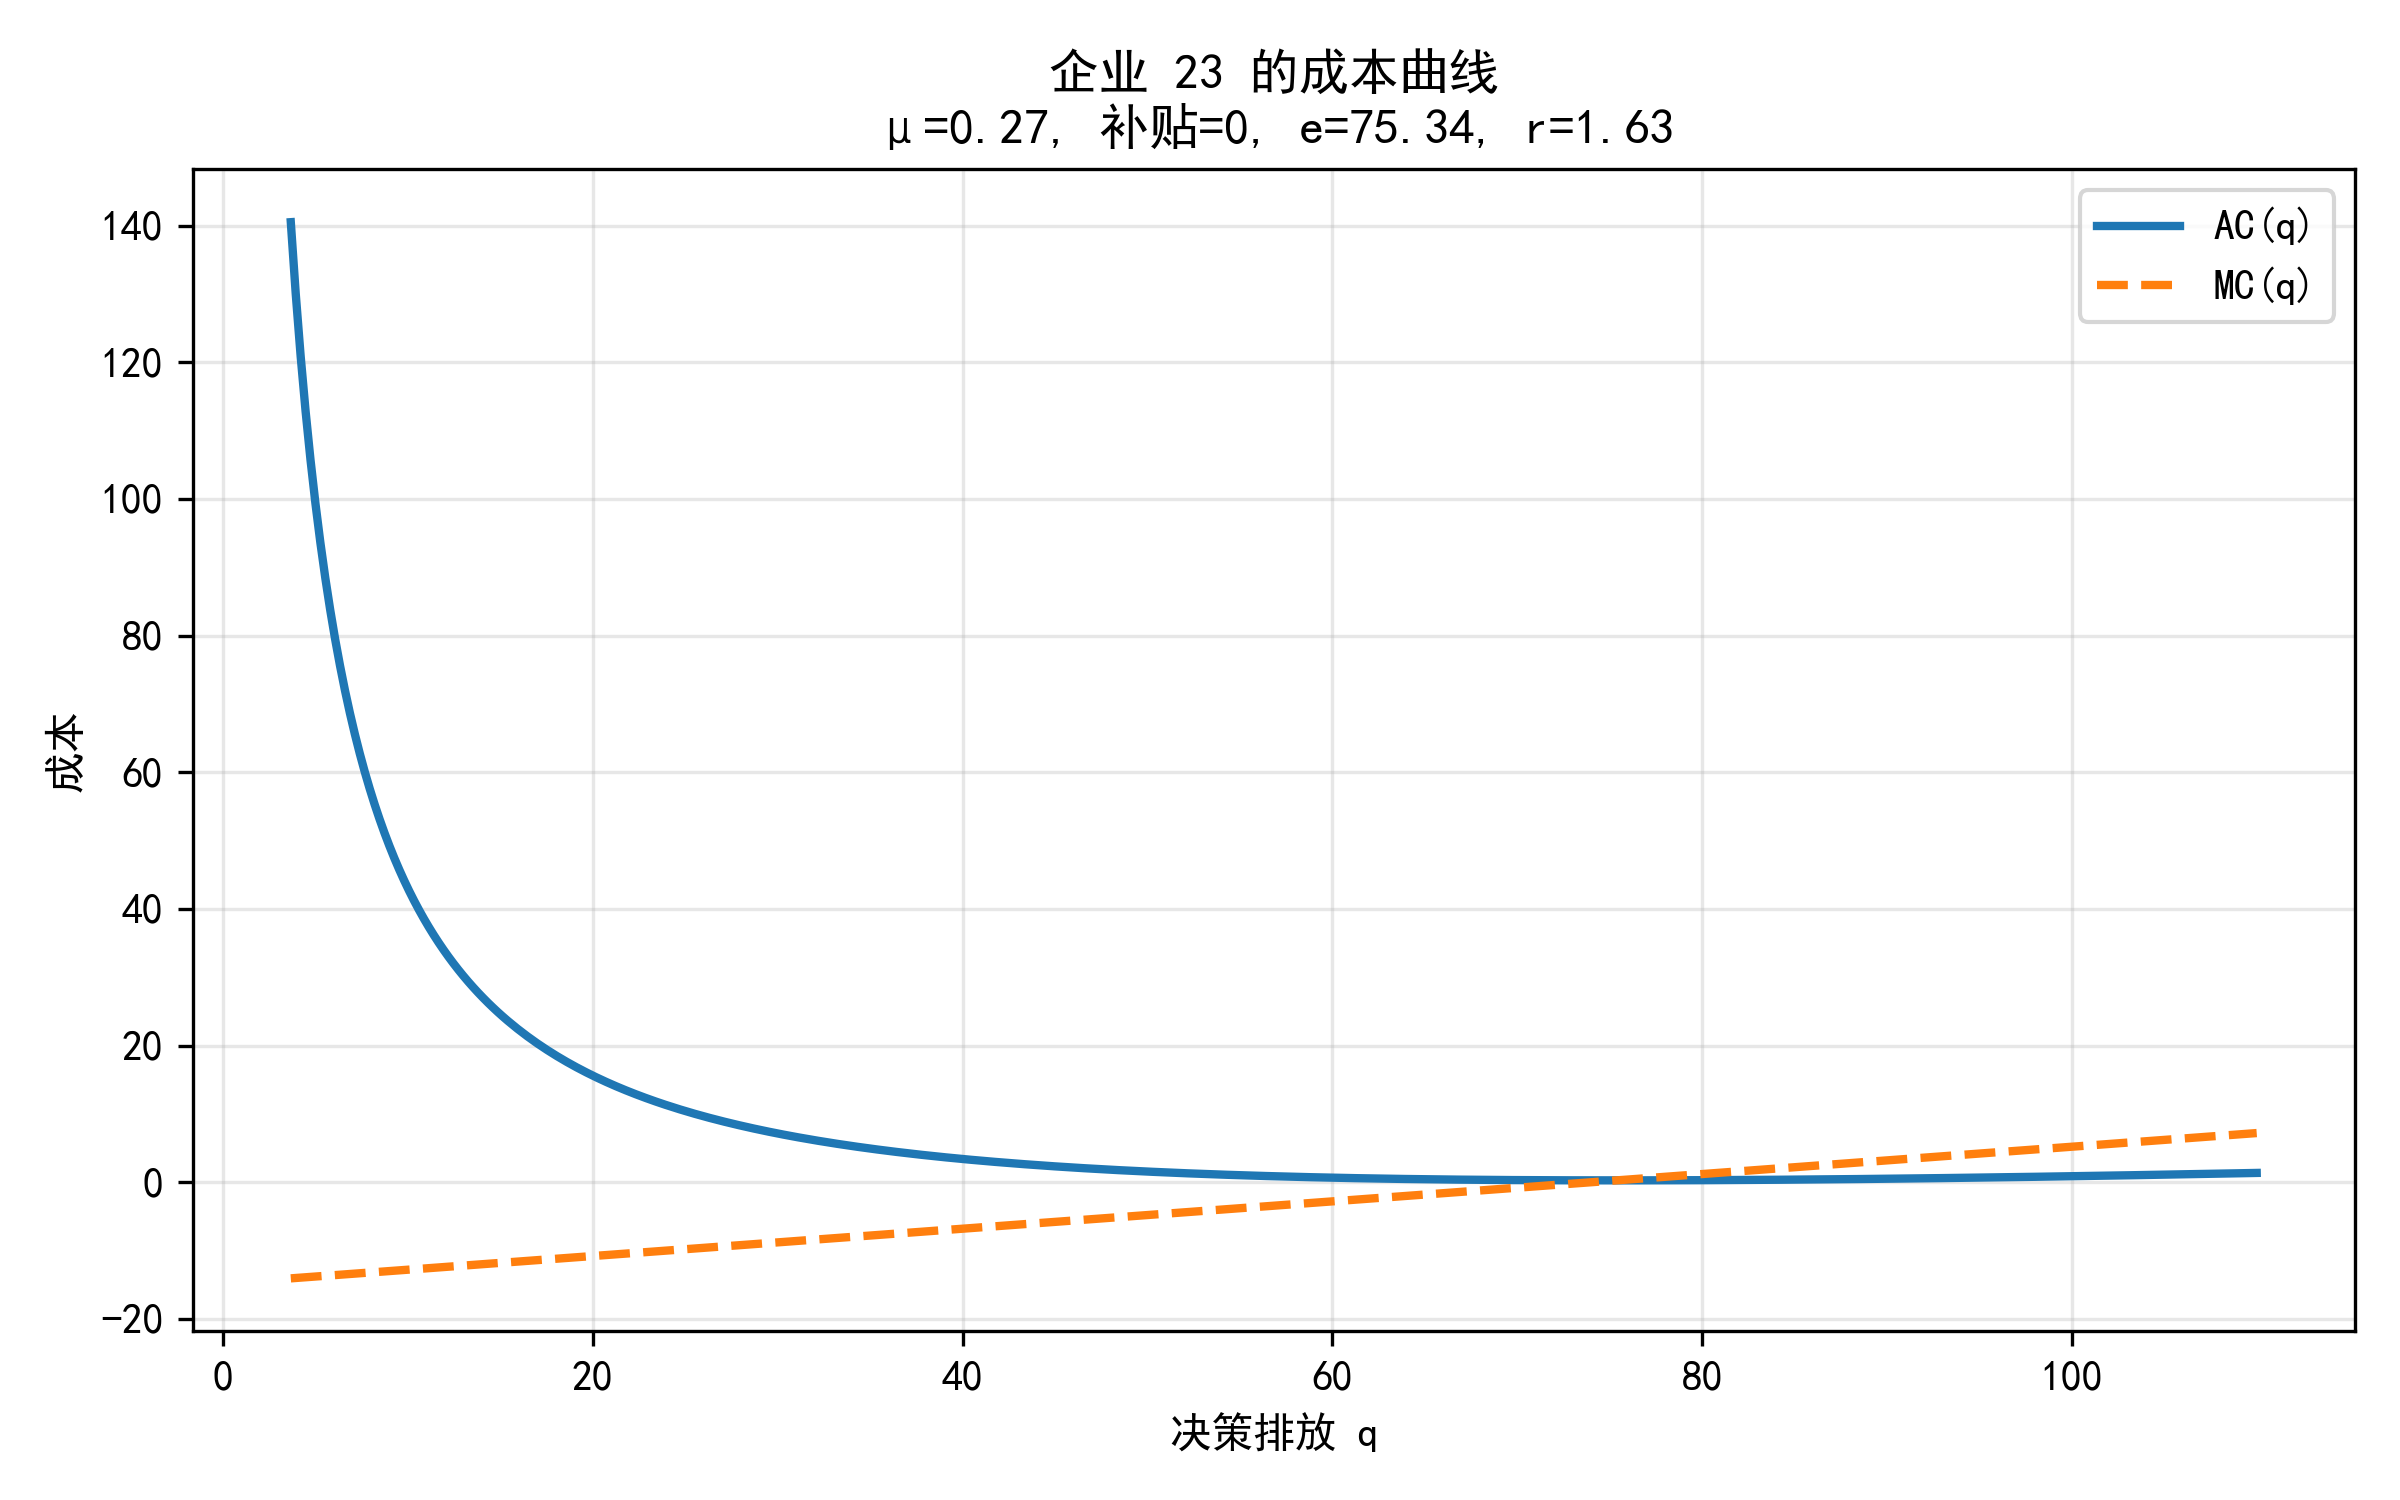
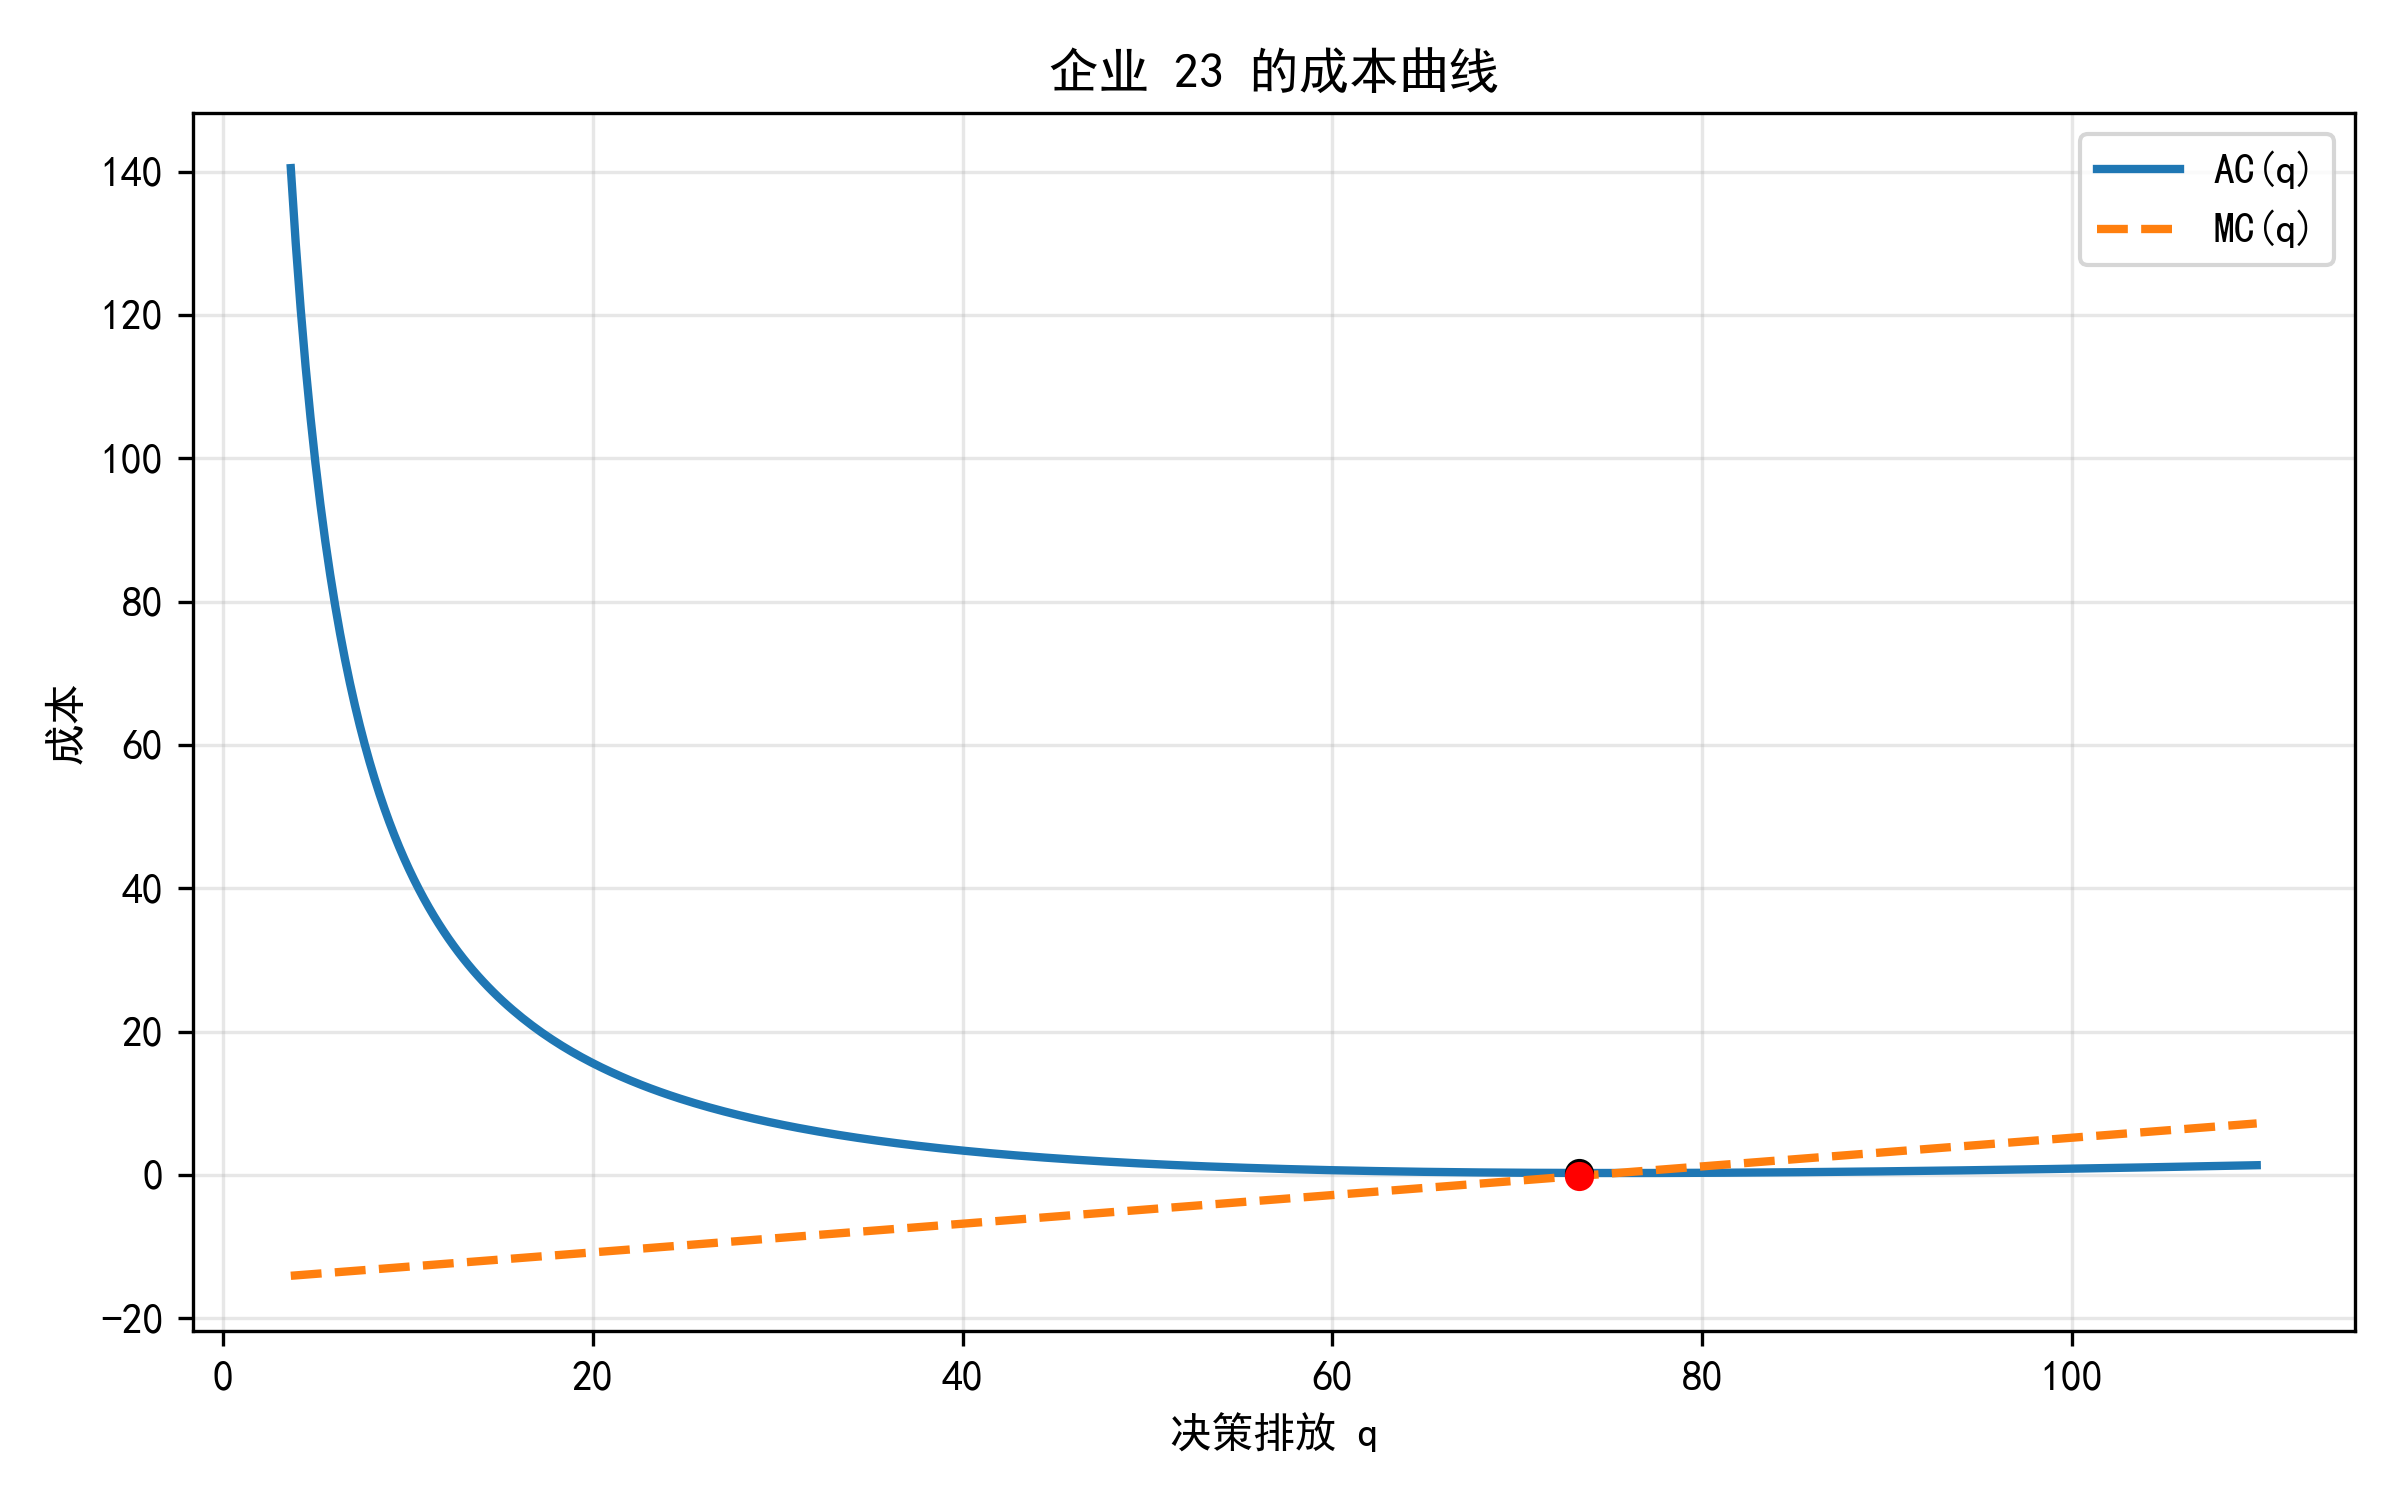
01

diff --git a/网络构建及博弈/visualize.py b/网络构建及博弈/visualize.py
@@ -1,65 +1,47 @@
-import matplotlib
-import matplotlib.pyplot as plt
-
-matplotlib.rcParams['font.sans-serif'] = ['SimHei']   # 黑体
-matplotlib.rcParams['axes.unicode_minus'] = False     # 解决负号显示问题
-
 import os
 import numpy as np
 import pandas as pd
+import matplotlib
 import matplotlib.pyplot as plt
 
-# ================== 可调参数 ==================
+# ---------- 中文字体（避免警告） ----------
+matplotlib.rcParams['font.sans-serif'] = ['SimHei']
+matplotlib.rcParams['axes.unicode_minus'] = False
+
+# ---------- 文件与参数 ----------
 CASE_FILE = "Case1_全流程结果.xlsx"
-NETWORK_FILE = "网络构建及博弈均衡结果.xlsx"
-
-TOP_K = 10          # 前 K 个关键企业
-I_PARAM = 0.2       # I 参数（与博弈代码一致）
+TOP_K = 10
+I_PARAM = 0.2
 OUTPUT_DIR = "figures"
-# ============================================
 
 
-def ensure_dir(path):
-    os.makedirs(path, exist_ok=True)
-
-
-# -------- 成本函数（与你博弈代码一致） --------
+# ---------- 成本函数 ----------
 def cost_C(q, e, r, mu, subsidy, I):
     """
-    C(q) = μ(q+r) + I/2*(e-q)^2 - (subsidy/e)*(e-q)
+    非合作博弈成本函数
+    C(q) = μ(q+r) + I/2*(e-q)^2 - (s/e)*(e-q)
     """
-    return (
-        mu * (q + r)
-        + 0.5 * I * (e - q) ** 2
-        - (subsidy / e) * (e - q)
-    )
+    return mu * (q + r) + 0.5 * I * (e - q) ** 2 - (subsidy / e) * (e - q)
 
 
 def MC(q, e, r, mu, subsidy, I):
     """
-    MC(q) = dC/dq = μ - I(e-q) + subsidy/e
+    边际成本
+    MC(q) = μ - I(e-q) + s/e
     """
     return mu - I * (e - q) + subsidy / e
 
 
-# ================== 主流程 ==================
 def main():
-    ensure_dir(OUTPUT_DIR)
+    os.makedirs(OUTPUT_DIR, exist_ok=True)
 
-    # ---------- 读取 Case 文件 ----------
-    xls = pd.ExcelFile(CASE_FILE)
-    df_summary = pd.read_excel(xls, sheet_name="汇总信息")
-    df_detail = pd.read_excel(xls, sheet_name="所有轮次明细")
+    # ---------- 读取 Excel ----------
+    df_sum = pd.read_excel(CASE_FILE, sheet_name="汇总信息")
+    df_det = pd.read_excel(CASE_FILE, sheet_name="所有轮次明细")
 
-    # ---------- 读取网络文件（μ） ----------
-    df_net = pd.read_excel(NETWORK_FILE, sheet_name="网络结构")
-    mu_map = dict(
-        zip(df_net["节点ID"], df_net["碳边际减排成本μ"])
-    )
-
-    # ---------- 选取前 K 个关键企业 ----------
+    # ---------- 前 TOP_K 个关键企业 ----------
     key_ids = []
-    for x in df_summary["关键企业ID"]:
+    for x in df_sum["关键企业ID"]:
         if x not in key_ids:
             key_ids.append(int(x))
         if len(key_ids) >= TOP_K:
@@ -67,20 +49,23 @@ def main():
 
     print("选取的关键企业：", key_ids)
 
-    # ---------- 循环画图 ----------
-    for firm_id in key_ids:
-        row = df_detail[df_detail["企业ID"] == firm_id].iloc[0]
+    # ---------- 作图 ----------
+    for fid in key_ids:
+        # 明细表：e, r, q, subsidy
+        row_det = df_det[df_det["企业ID"] == fid].iloc[0]
 
-        # 基本参数
-        e = row["初始排放e"]
-        r = row["净流出r"]
-        q_star = row["决策排放q"]
-        subsidy = row["获得补贴"]
-        mu = mu_map[firm_id]
+        e = row_det["初始排放e"]
+        r = row_det["净流出r"]
+        q_star = row_det["决策排放q"]
+        subsidy = row_det["获得补贴"]
+
+        # 汇总表：μ（已经内生化）
+        row_sum = df_sum[df_sum["关键企业ID"] == fid].iloc[0]
+        mu = row_sum["关键企业μ"]
 
         # q 取值范围
         q_min = max(1e-4, 0.05 * q_star)
-        q_max = max(e * 1.1, 1.5 * q_star)
+        q_max = max(1.5 * q_star, 1.1 * e)
         q_vals = np.linspace(q_min, q_max, 400)
 
         # 计算 AC / MC
@@ -95,31 +80,27 @@ def main():
         # ---------- 画图 ----------
         plt.figure(figsize=(8, 5))
         plt.plot(q_vals, AC_vals, label="AC(q)", linewidth=2)
-        plt.plot(q_vals, MC_vals, label="MC(q)", linestyle="--", linewidth=2)
+        plt.plot(q_vals, MC_vals, "--", label="MC(q)", linewidth=2)
 
-        #plt.scatter(q_star, AC_star, color="black", zorder=5, label="AC(q*)")
-        #plt.scatter(q_star, MC_star, color="red", zorder=5, label="MC(q*)")
+        plt.scatter(q_star, AC_star, c="black", zorder=5)
+        plt.scatter(q_star, MC_star, c="red", zorder=5)
 
         plt.xlabel("决策排放 q")
         plt.ylabel("成本")
-        plt.title(
-            f"企业 {firm_id} 的成本曲线\n"
-            f"μ={mu:.2f}, 补贴={subsidy:.0f}, e={e:.2f}, r={r:.2f}"
-        )
+        plt.title(f"企业 {fid} 的成本曲线")
 
         plt.legend()
         plt.grid(alpha=0.3)
         plt.tight_layout()
 
-        fname = f"{OUTPUT_DIR}/firm_{firm_id}_AC_MC.png"
+        fname = f"{OUTPUT_DIR}/firm_{fid}_AC_MC.png"
         plt.savefig(fname, dpi=300)
         plt.close()
 
         print(f"已保存：{fname}")
 
-    print("\n✅ 所有关键企业成本曲线绘制完成！")
+    print("\n✅ 最终版可视化完成（仅 AC / MC）")
 
 
-# ================== 运行 ==================
 if __name__ == "__main__":
     main()
